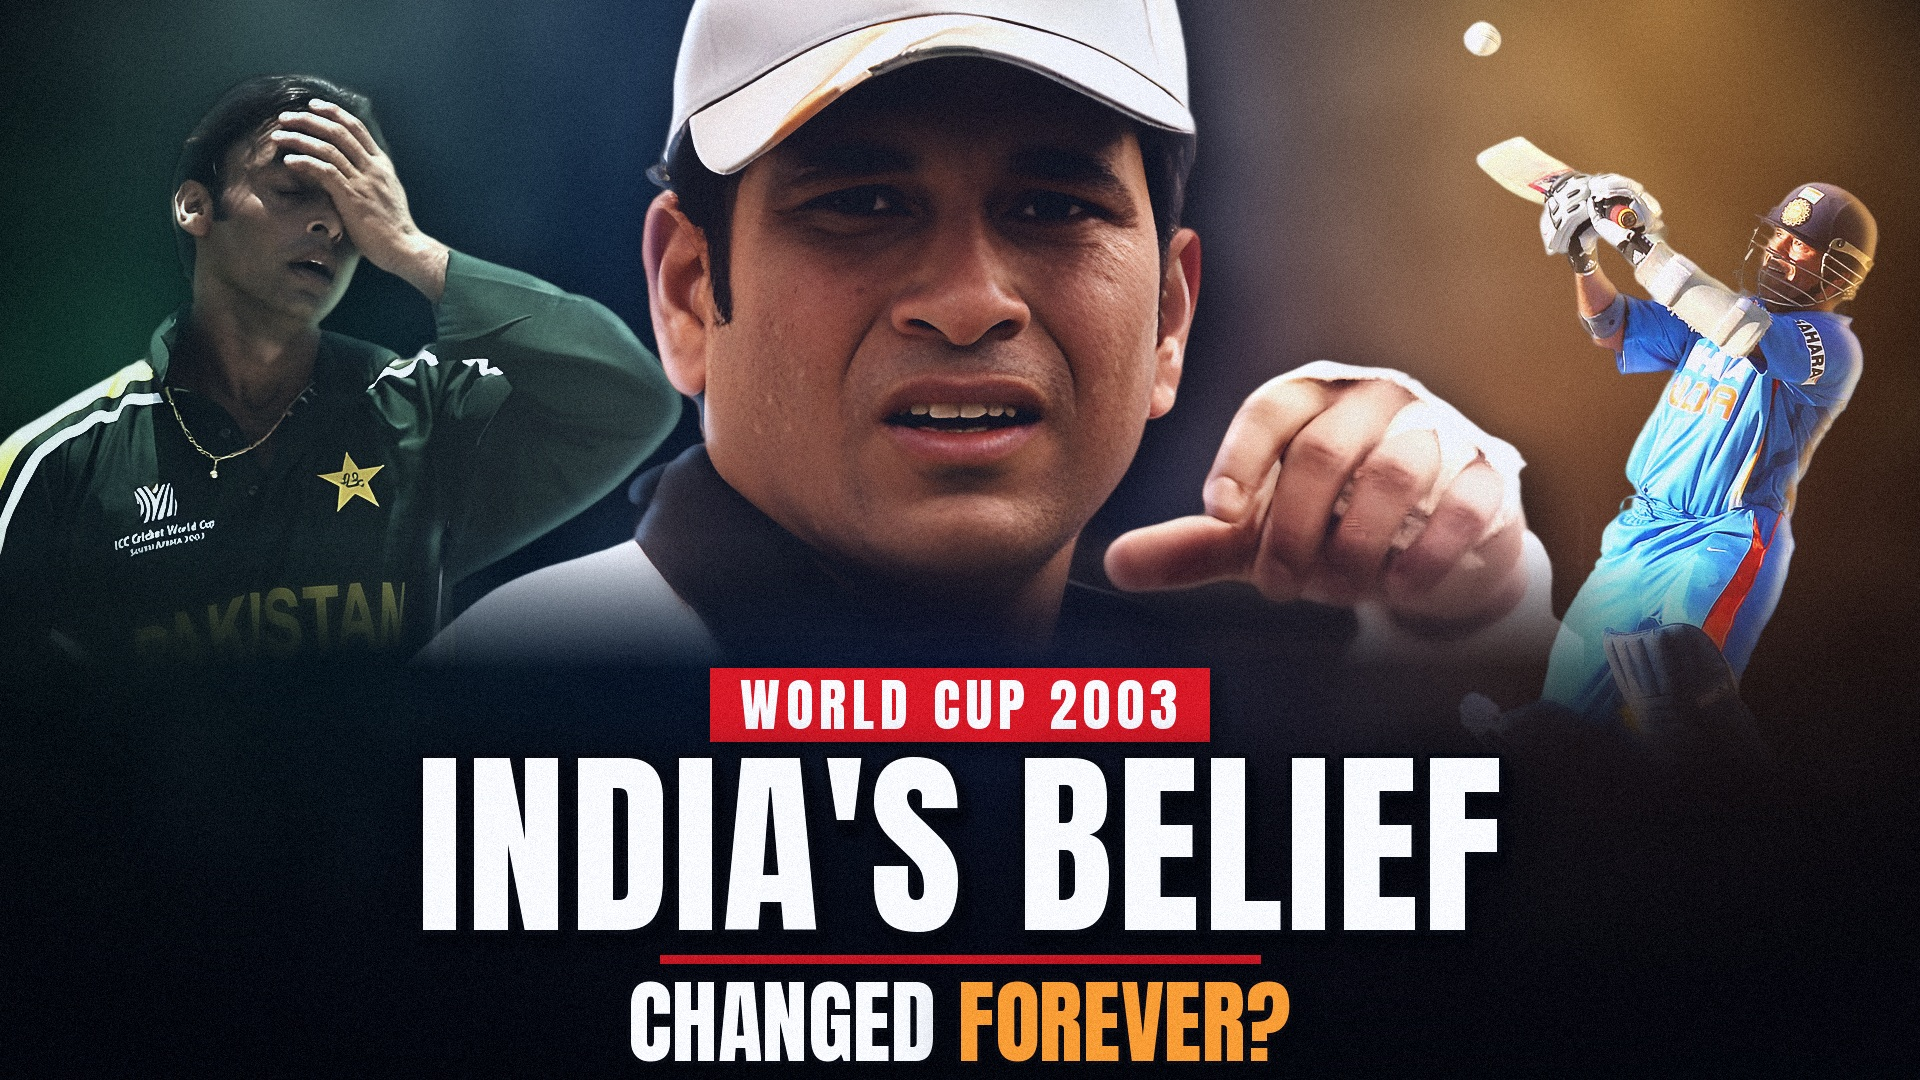
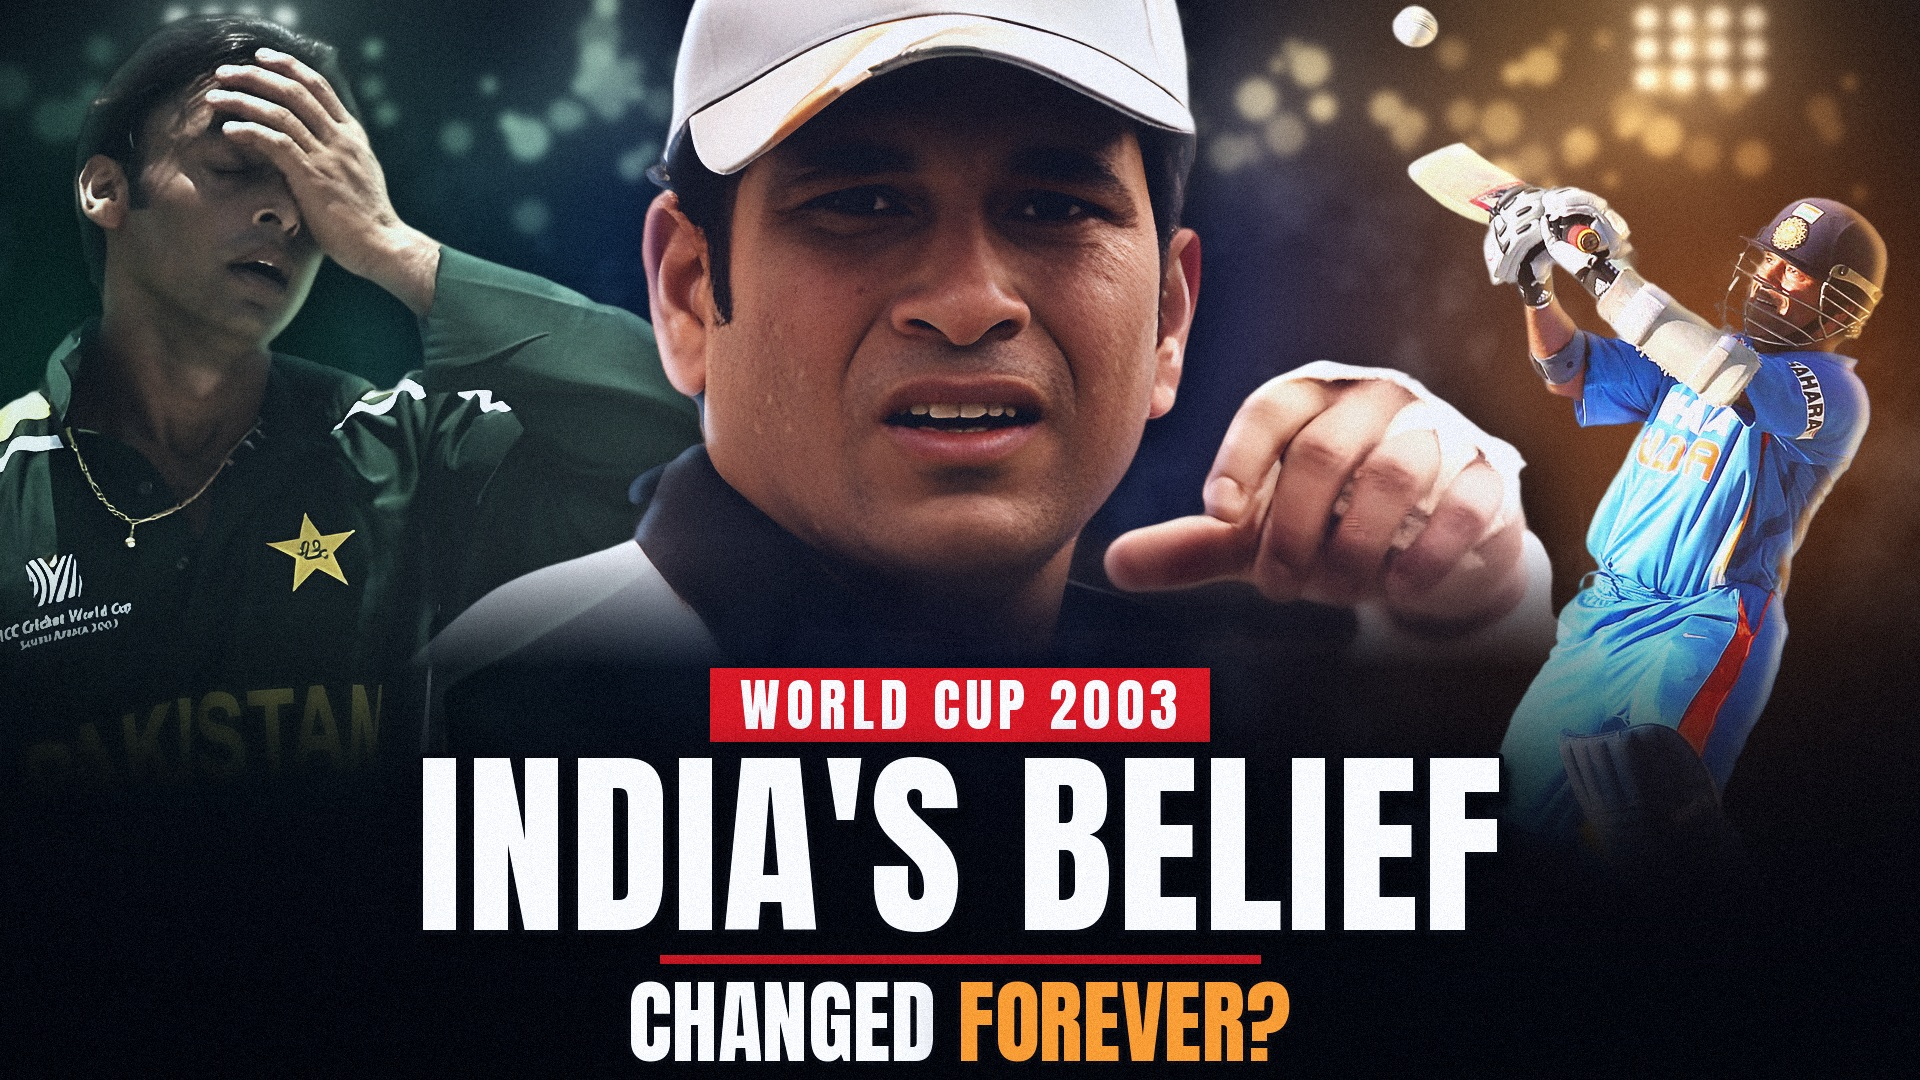
Thumbnail F: bigger side players, clean floodlit background
background_clean() replaces the blurred crowd photo with colour fields,
floodlight beams, bokeh lights and smoke. Shoaib and the Sachin hook are
scaled up.

Claude-Session: https://claude.ai/code/session_01SQh72PYSr2UGL5osbLDTTd

diff --git a/doc_video/thumb/thumb_wc2003.py b/doc_video/thumb/thumb_wc2003.py
@@ -71,6 +71,64 @@ def background():
     return img(a).convert("RGBA")
 
 
+def background_clean():
+    """Clean floodlit night backdrop: colour fields, light beams, bokeh floodlights, smoke. No photo texture."""
+    a = np.zeros((H, W, 3), np.float32) + np.array([7, 9, 16], np.float32)
+    # colour fields: Pakistan green left, India blue centre, saffron/gold right
+    for cx, cy, rx, ry, col, k in [(120, 420, 900, 760, (20, 120, 70), 0.75), (960, 330, 760, 620, (30, 70, 170), 0.8),
+                                   (1780, 360, 900, 760, (230, 120, 25), 0.85), (1650, -80, 600, 420, GOLD, 0.6),
+                                   (260, -80, 560, 400, (190, 230, 210), 0.35)]:
+        a += radial(cx, cy, rx, ry, 1.8)[..., None] * np.array(col, np.float32) * k
+
+    # volumetric beams fanning down from two floodlight towers
+    beams = Image.new("L", (W, H), 0)
+    d = ImageDraw.Draw(beams)
+    for fx, fy, angles in [(230, -60, (58, 70, 82, 95)), (1700, -60, (88, 100, 112, 124))]:
+        for ang in angles:
+            t = np.radians(ang)
+            for spread, val in [(0.05, 34), (0.02, 40)]:
+                p1 = (fx + 2400 * np.cos(t - spread), fy + 2400 * np.sin(t - spread))
+                p2 = (fx + 2400 * np.cos(t + spread), fy + 2400 * np.sin(t + spread))
+                d.polygon([(fx, fy), p1, p2], fill=val)
+    beams = arr(beams.filter(ImageFilter.GaussianBlur(26))) / 255
+    beams *= np.clip(1 - np.linspace(0, 1, H) * 1.1, 0, 1)[:, None]
+    a += beams[..., None] * np.array([235, 235, 225], np.float32) * 0.9
+
+    # bokeh: out-of-focus stadium lights along the top tiers
+    bok = Image.new("RGB", (W, H), (0, 0, 0))
+    d = ImageDraw.Draw(bok)
+    for _ in range(140):
+        x = rng.uniform(0, W)
+        y = rng.normal(110, 45)
+        r = rng.uniform(6, 22)
+        warm = x / W
+        col = tuple(int(c) for c in (np.array([170, 230, 200]) * (1 - warm) + np.array([255, 200, 120]) * warm)
+                    * rng.uniform(0.25, 0.7))
+        d.ellipse((x - r, y - r, x + r, y + r), fill=col)
+    for cx in (230, 1700):  # floodlight heads
+        for i in range(4):
+            for j in range(3):
+                x, y = cx - 54 + i * 36, 18 + j * 30
+                d.ellipse((x - 11, y - 11, x + 11, y + 11), fill=(255, 250, 235))
+    bok = bok.filter(ImageFilter.GaussianBlur(5))
+    a += arr(bok) * 0.9
+    a += arr(bok.filter(ImageFilter.GaussianBlur(40))) * 1.2  # bloom
+
+    # drifting smoke, strongest through the middle band
+    smoke = np.zeros((H, W), np.float32)
+    for scale, amp in [(64, 1.0), (24, 0.5), (10, 0.25)]:
+        n = rng.normal(0, 1, (H // scale + 2, W // scale + 2)).astype(np.float32)
+        n = arr(img(n * 50 + 128, "L").resize((W, H), Image.BICUBIC).filter(ImageFilter.GaussianBlur(scale / 2))) / 255 - 0.5
+        smoke += n * amp
+    band = np.exp(-((np.arange(H) - 420) / 260) ** 2)[:, None]
+    a += np.clip(smoke, 0, None)[..., None] * band[..., None] * np.array([120, 130, 140], np.float32) * 1.4
+
+    yy, xx = np.mgrid[0:H, 0:W].astype(np.float32)
+    v = 1 - 0.7 * np.clip(((xx - W / 2) / (W * 0.62)) ** 2 + ((yy - H * 0.38) / (H * 0.8)) ** 2, 0, 1)
+    a *= v[..., None]
+    return img(a).convert("RGBA")
+
+
 def load_cut(name, height):
     im = Image.open(os.path.join(HERE, name)).convert("RGBA")
     s = height / im.height
@@ -345,21 +403,21 @@ def main_hq():
 
 def main_final():
     """Shoaib head-in-hand (2003 WC kit, 4x upscaled) left, hi-res Sachin hook right, cap close-up centre."""
-    base = background()
+    base = background_clean()
 
     # LEFT - Shoaib, hand to his head: the challenge India answered
-    sh = load_cut("cut_x4_shoaib_head.png", 600)
+    sh = load_cut("cut_x4_shoaib_head.png", 790)
     sh = regrade(sh, color=0.55, contrast=1.15, bright=1.12, sharpen=(1.0, 60, 1), tint=(60, 130, 90), tint_k=0.15)
     sh = directional_light(sh, "right", (225, 240, 230), 0.7)
-    sh = fade_bottom(sh, 470, 600)
-    place(base, sh, -90, 70, rim_color=(190, 235, 205), rim_side=1, rim_k=0.3)
+    sh = fade_bottom(sh, 600, 790)
+    place(base, sh, -270, 10, rim_color=(190, 235, 205), rim_side=1, rim_k=0.3)
 
     # RIGHT - Sachin's hook, ball in the air; warm saffron key
-    hk = load_cut("cut_hq_sachin_hook.png", 880)
+    hk = load_cut("cut_hq_sachin_hook.png", 1050)
     hk = regrade(hk, color=1.1, contrast=1.12, bright=1.02, sharpen=(1.0, 60, 1))
     hk = directional_light(hk, "right", SAFFRON, 0.75)
-    hk = fade_bottom(hk, 540, 760)
-    place(base, hk, W - hk.width - 40, 20, rim_color=GOLD, rim_side=1, rim_k=0.5, shadow=0)
+    hk = fade_bottom(hk, 640, 900)
+    place(base, hk, W - hk.width - 30, 4, rim_color=GOLD, rim_side=1, rim_k=0.5, shadow=0)
 
     # CENTRE - the hero close-up
     hero = load_cut("cut_x4_sachin_cap.png", 740)
